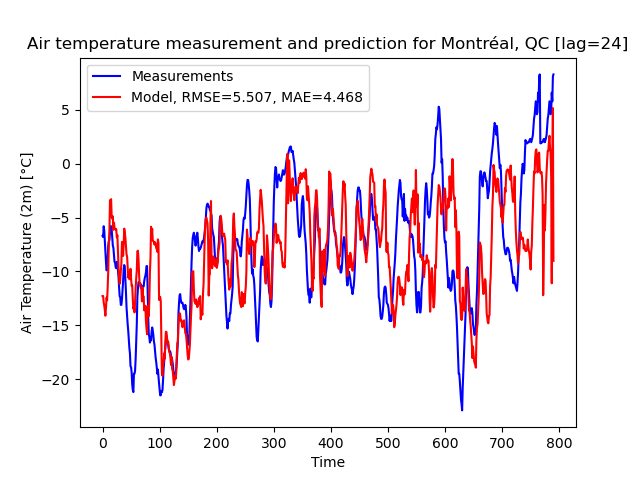
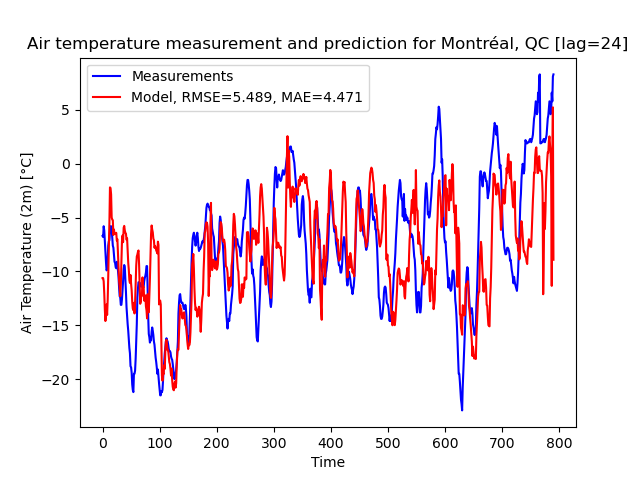
Add cloud cover

diff --git a/code/project_paul.py b/code/project_paul.py
@@ -165,7 +165,7 @@ if __name__ == "__main__":
         print(f'Running model for h={lag}h')
         #add lags for Temperature
         df_new = add_lags(df.copy(), 'T', [1, 2, 3, 4, 5, 6])
-        #df_new = add_lags(df.copy(), 'P', [1, 2, 3])
+        df_new = add_lags(df_new, 'Cloud', [1, 2, 3])
         df_new = add_future_lag(df_new, 'T', [-lag])
         #print(df_new)
         #split dataframe into training and control data
